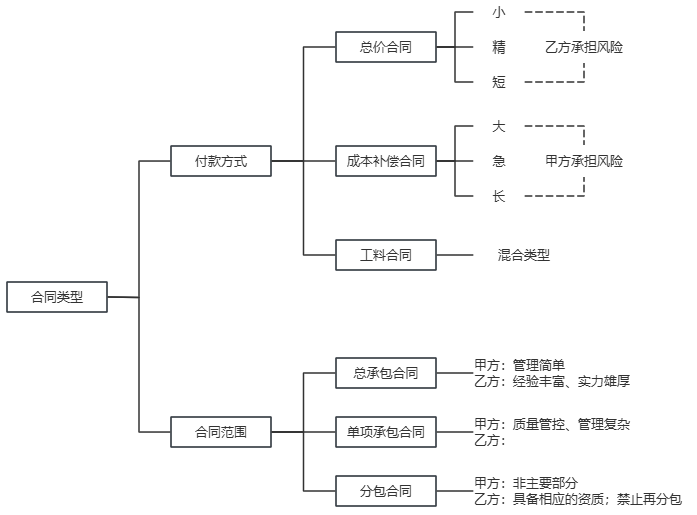
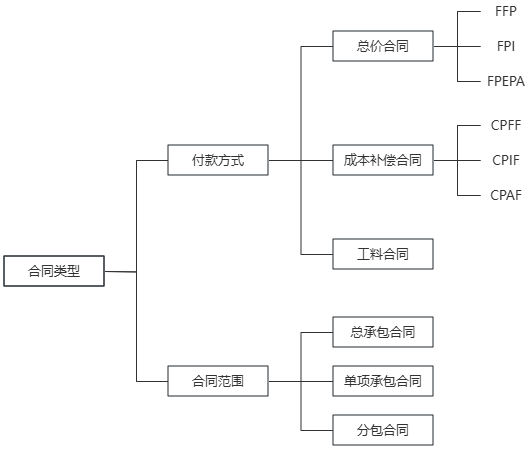
intern

diff --git a/common/internship.html b/common/internship.html
@@ -18,6 +18,42 @@
         break-after: page;
       }
     }
+
+    .bar {
+      display: flex;
+      align-items: center;
+      max-width: 600px;
+      gap: 1rem;
+      margin: 0 auto;
+    }
+
+    .bar::after {
+      content: attr(data-credit);
+      font-size: 16px;
+      line-height: 1;
+    }
+
+    .bar .user {
+      flex-basis: 60px;
+      text-align-last: justify;
+    }
+
+    .bar .per {
+      display: flex;
+      align-items: center;
+      flex: 1;
+      border: 1px solid var(--main-color);
+      padding: 2px;
+      border-radius: 30px;
+    }
+
+    .bar .per::before {
+      content: '';
+      width: calc(var(--credit) /100*100%);
+      height: 18px;
+      border-radius: 30px;
+      background-color: var(--main-color);
+    }
   </style>
 </head>
 
@@ -25,14 +61,53 @@
   <div class="w">
     <header></header>
     <dl>
-      <dt>代办 Todo</dt>
-      <ul>
-        <li>注册校友邦账号并绑定学籍</li>
-        <li>校外实习承诺书：打印；手写签名；扫描上传；纸质留存</li>
-        <li>知情同意书：打印；手写签名；扫描上传；纸质留存</li>
-        <!-- <li>安全责任书：打印；手写签名；扫描上传；纸质留存</li> -->
-      </ul>
+      <figure>
+        <div class="bar" style="--credit:6" data-credit="6">
+          <span class="user">吴旭洋</span>
+          <div class="per"></div>
+        </div>
+        <div class="bar" style="--credit:4" data-credit="4">
+          <span class="user">胡俊伟</span>
+          <div class="per"></div>
+        </div>
+        <div class="bar" style="--credit:9" data-credit="9">
+          <span class="user">蔡梓威</span>
+          <div class="per"></div>
+        </div>
+        <div class="bar" data-credit="6" style="--credit:6">
+          <span class="user">罗航</span>
+          <div class="per"></div>
+        </div>
+        <div class="bar" data-credit="2" style="--credit:2">
+          <span class="user">肖航</span>
+          <div class="per"></div>
+        </div>
+        <div class="bar" data-credit="5" style="--credit:5">
+          <span class="user">钟正扬</span>
+          <div class="per"></div>
+        </div>
+        <div class="bar" data-credit="4" style="--credit:4">
+          <span class="user">黄钧笙</span>
+          <div class="per"></div>
+        </div>
+        <div class="bar" data-credit="4" style="--credit:4">
+          <span class="user">郑智聪</span>
+          <div class="per"></div>
+        </div>
+        <div class="bar" data-credit="3" style="--credit:3">
+          <span class="user">林庆</span>
+          <div class="per"></div>
+        </div>
+        <figcaption>积分榜</figcaption>
+      </figure>
       <dt>指导过程</dt>
+      <ul>
+        <li>例会 +2/次</li>
+        <li>家长知情回执：打印；手写签名；扫描上传；纸质留存 +2</li>
+        <li>校外实习承诺书：打印；手写签名；扫描上传；纸质留存 +2</li>
+        <li>注册校友邦账号并绑定学籍 +2</li>
+      </ul>
+      <dt>相关材料</dt>
       <dd><a href="./intern/计算机工程学院张树彬教师校外教学指导会议记录.docx">指导会议记录</a></dd>
       <dd><a href="./intern/1.校外承诺书及家长回执端口--（27届）学生校外实习承诺书（模板+例子）.docx">承诺书和回执模板</a></dd>
       <dd><a href="./intern/实习见面会/5.教函字〔2026〕39 号 关于落实2027届学生校外实习准备阶段核心工作任务的通知.pdf">实习通知</a></dd>
@@ -432,19 +507,6 @@
           </tr>
         </tbody>
       </table>
-      <dt>指导教师</dt>
-      <ol>
-        <li>院级管理员将校内指导老师信息导进校友邦</li>
-        <li>查看承诺书及回执（手写签字）</li>
-        <li>报名审核</li>
-        <li>查看知情同意书</li>
-        <li>审核三方协议</li>
-        <li>查看学生签到统计</li>
-        <li>周志批阅</li>
-        <li>提醒学生实习评价</li>
-        <li>报告批阅</li>
-        <li>实习成绩鉴定</li>
-      </ol>
       <dt>实习学生</dt>
       <ol>
         <li>注册账号，学籍认证</li>
@@ -457,6 +519,19 @@
         <li>提交实习评价</li>
         <li>提交实习报告书（电脑端）</li>
         <li>成绩鉴定表</li>
+      </ol>
+      <dt>指导教师</dt>
+      <ol>
+        <li>院级管理员将校内指导老师信息导进校友邦</li>
+        <li>查看承诺书及回执（手写签字）</li>
+        <li>报名审核</li>
+        <li>查看知情同意书</li>
+        <li>审核三方协议</li>
+        <li>查看学生签到统计</li>
+        <li>周志批阅</li>
+        <li>提醒学生实习评价</li>
+        <li>报告批阅</li>
+        <li>实习成绩鉴定</li>
       </ol>
     </dl>
     <div id="footer"></div>

diff --git a/web/ide-vscode.html b/web/ide-vscode.html
@@ -445,18 +445,37 @@ ul>li.news-item*5>(.news-title>lorem5)+.page{$}
 dg+h100vh+bgc:#000+c:#fff
 
 ((h2>lorem5)+(p*5>lorem))*5</pre>
+    </dl>
+    <h2>Drill</h2>
+    <dl>
       <div class="demo"> Helloworld - 原生开发项目；框架开发项目，请查看 <a href="../vue/project.html">Vue
           - project</a></div>
-      <dd>在系统某个位置，创建一个空白文件夹/ Ctrl + Shift + N，拖动到 Vs Code 中打开；或直接在 Vs Code 中创建文件夹</dd>
-      <dd>创建主页文件 index.html</dd>
-      <dd>在编辑窗口区输入一个英文 ! 并按 Tab 或 Enter，快速生成 H5 基本结构页面</dd>
-      <dd>修改页面 &lt;head&gt; 区的 &lt;title&gt; 为学号+姓名，如20241001张三</dd>
-      <dd>在 &lt;body&gt; 区输入 Hello World 并按 CTRL + S 保存</dd>
-      <dd>在 index.html 页面任意位置，右键单击鼠标，选择 Open with ddve Server，自动打开浏览器，查看页面效果</dd>
-      <dd>返回编辑器，编辑、修改并保存文档</dd>
-      <dd>返回浏览器，查看实时更新效果</dd>
-      <dd>测试项目</dd>
-      <dd>发布项目</dd>
+      <ol>
+        <li>在系统某个位置，创建一个空白文件夹/ Ctrl + Shift + N，拖动到 Vs Code 中打开；或直接在 Vs Code 中创建文件夹</li>
+        <li>创建主页文件 index.html</li>
+        <li>在编辑窗口区输入一个英文 ! 并按 Tab 或 Enter，快速生成 H5 基本结构页面</li>
+        <li>修改页面 &lt;head&gt; 区的 &lt;title&gt; 为学号+姓名，如20241001张三</li>
+        <li>在 &lt;body&gt; 区输入 Hello World 并按 CTRL + S 保存</li>
+        <li>在 index.html 页面任意位置，右键单击鼠标，选择 Open with live Server，自动打开浏览器，查看页面效果</li>
+        <li>返回编辑器，编辑、修改并保存文档</li>
+        <li>返回浏览器，查看实时更新效果</li>
+        <li>测试项目</li>
+        <li>发布项目</li>
+      </ol>
+      <div class="demo">Helloworld - 进阶版</div>
+      <dd>将项目推送到远程仓库</dd>
+      <ol>
+        <li>安装并配置 <a href="./ide-git.html">Git 版本管理</a></li>
+        <li>注册并创建 <a href="./ide-github.html">Github 仓库</a></li>
+        <li>单击 Vs code 编辑器左侧的仓库图标</li>
+        <li>初始化项目</li>
+        <li>提交代码 commit，第一次会提示是否保存，选择永远 always</li>
+        <li>发布项目 Publish，提示打开 GitHub 进行认证，授权并同意</li>
+        <li>继续发布，提示仓库已存在；实际是没有关联远程仓库；在</li>
+        <li>CTRL + ~ 打开 Vs code 终端，关联远程仓库</li>
+        <pre>git remote add origin 仓库地址</pre>
+        <li>重新发布</li>
+      </ol>
       <div class="demo"> 查找并替换所有元素的自定义数据 - 使用正则表达式</div>
       <dd>打开查找替换功能（通常使用 Ctrl+H 或 Cmd+H）或 Ctrl + F</dd>
       <dd>启用正则表达式模式 - 点击 .* 图标或类似的选项</dd>

diff --git a/node/promise.html b/node/promise.html
@@ -7,7 +7,7 @@
   <meta name="viewport" content="width=device-width, initial-scale=1.0">
   <title>Promise</title>
   <link rel="stylesheet" href="/css/reset.css">
-  <link rel="stylesheet" href="./css/style.css">
+  <!-- <link rel="stylesheet" href="./css/style.css"> -->
   <base target="_blank">
 </head>
 
@@ -73,7 +73,41 @@ let promise = new Promise((resolve, reject) => {
   .finally(log => {
     console.log('ending for log');
 })</pre>
-      <div class="demo"> 延时</div>
+      <dt>状态</dt>
+      <div>1. pending</div>
+      <dd>待处理 - 调用 Promise 时，初始状态为 pending，表示还没有开始</dd>
+      <pre>
+let promise = new Promise((resolve, reject) => {
+})
+
+console.log(promise);</pre>
+      <div>2. fulfilled</div>
+      <dd>执行成功/完毕时，调用 resolve，将 Promise 的状态改为 fulfilled</dd>
+      <pre>
+let promise = new Promise((resolve, reject) => {
+  resolve('fulfilled')
+})
+
+console.log(promise);
+
+promise.then(res => {
+  console.log(res);
+})</pre>
+      <div class="demo">延时</div>
+      <pre>
+function timeout(n) {
+  return new Promise(res => setTimeout(res, n))
+}
+
+async function wait() {
+  await timeout(1000)
+  console.log('1s');
+  await timeout(3000)
+  console.log('3s');
+}
+
+wait()</pre>
+      <div class="demo">延时</div>
       <pre>
 function loadData() {
   return new Promise((res, rej) => {
@@ -87,26 +121,6 @@ loadData().then(res => {
   console.log(res);
   return res
 })</pre>
-      <dt>状态</dt>
-      <div>1. pending</div>
-      <dd>待处理 - 调用 Promise 时，初始状态为 pending，表示还没有开始</dd>
-      <pre>
-let promise = new Promise((resolve, reject) => {
-})
-
-console.log(promise);</pre>
-      <div>2. fulfilled</div>
-      <dd>执行成功时，调用 resolve，将 Promise 的状态改为 fulfilled</dd>
-      <pre>
-let promise = new Promise((resolve, reject) => {
-  resolve('fulfilled')
-})
-
-console.log(promise);
-
-promise.then(res => {
-  console.log(res);
-})</pre>
       <div>3. rejected</div>
       <dd>Promise 执行过程中遇到错误或者无法完成预期操作时，Promise 的状态改为 rejected</dd>
       <pre>
@@ -119,6 +133,7 @@ console.log(promise);
 promise.catch(err => {
   console.log(err);
 })</pre>
+      <div class="demo">数据加载</div>
       <pre>
 let flag = false
 let promise = new Promise((resolve, reject) => {

diff --git a/spm/contract.html b/spm/contract.html
@@ -38,6 +38,10 @@
         <img src="./img/c0.png" alt="">
         <figcaption>合同类型</figcaption>
       </figure>
+      <figure>
+        <img src="./img/c1.png" alt="">
+        <figcaption>合同风险</figcaption>
+      </figure>
       <dd>按照付款方式划分</dd>
       <dd>关键词：成本 Cost、费用 Fee</dd>
       <dt>总价合同</dt>
@@ -256,7 +260,22 @@
       <dd>输出：招标书或者类似招标书的形式体现的</dd>
     </dl>
     <h2>敏捷项目合同</h2>
-    <dl></dl>
+    <dl>
+      <div class="tips">
+        <p>客户协作高于合同协商</p>
+        <p>Customer collaboration over contract negotiation</p>
+        <p class="quote">-敏捷宣言</p>
+      </div>
+      <dd>多层次结构</dd>
+      <dd>强调价值交付</dd>
+      <dd>总价增量</dd>
+      <dd>固定的时间和材料</dd>
+      <dd>累进的时间和材料</dd>
+      <dd>提取取消方案</dd>
+      <dd>动态范围方案</dd>
+      <dd>团队扩充</dd>
+      <dd>支持全方位供应商</dd>
+    </dl>
     <h2>练习 Drill</h2>
     <dl>
       <div class="demo">预计成本 = 10万, 固定费用 = 1.5万，如果实际成本 = 30万，则支付总价为（）万。</div>

diff --git a/common/paper.html b/common/paper.html
@@ -192,10 +192,17 @@
       <dd>图的引用描述应保持一致，如下图所示或如图xxx所示</dd>
       <dd>图片应配有简单说明，避免 <strong>单纯罗列、堆砌大量图片</strong></dd>
       <dt>图表 Chart</dt>
-      <dd>使用专业工具绘制；不要使用PPT绘图</dd>
+      <dd>使用专业工具绘制；不要使用 PPT 绘图</dd>
       <dd>图表的设计，注意：布局 <strong>均衡</strong>；字体、大小、线条风格 <strong>保持一致</strong></dd>
       <dd>图表不要背景、不要过多颜色</dd>
       <dd>字体大小不能超过正文</dd>
+      <div class="tips">
+        <p>ProcessOn</p>
+        <p>字体：宋体/Times New Roman；13px</p>
+        <p>线条 1px</p>
+        <p>无填充</p>
+        <p>无网格</p>
+      </div>
       <dt>代码 Code</dt>
       <dd>不要简单复制粘贴，注意根据逻辑调整格式，如：注释换行应该补加注释标记</dd>
       <dd>代码格式同正文格式区分开来，如为段落应用背景色或调整字体大小</dd>

diff --git a/index.html b/index.html
@@ -96,13 +96,13 @@
     <div class="card">
       <h3>tool</h3>
       <ul>
+        <li><a href="/common/internship.html">实习日志</a></li>
         <li><a href="/common/paper.html">论文规范要点</a></li>
         <li><a href="https://passport2.chaoxing.com">超星学习通</a></li>
         <li><a href="/common/rank.html">积分榜</a></li>
         <li><a href="/utils/index.html">在线资源</a></li>
         <li><a href="/index_cover.html">最美2024</a></li>
         <li><a href="/index3d.html">3D入口</a></li>
-        <li><a href="/common/internship.html">实习日志</a></li>
         <li><a href="/common/log.html">更新日志</a></li>
         <li><a href="https://www.yuque.com">语雀</a></li>
         <li><a href="https://huacheng.gz-cmc.com/pages/2024/12/13/SF130662133e6ab8b65ce6462b9a2421.html">粤美勇士曾素聪</a>

diff --git a/web/ts/overview.html b/web/ts/overview.html
@@ -18,15 +18,18 @@
   <dl>
     <dd>更多信息，请访问 <a href="https://www.tslang.cn/index.html">TypeScript</a></dd>
     <dt>Deployment</dt>
-    <ol class="sn">
-      <li>install</li>
-      <pre>npm i -g typescript</pre>
-      <li>check version</li>
-      <pre>tsc -v</pre>
-      <li>compile</li>
-      <pre>tsc filename.ts</pre>
-    </ol>
-    <dt>config</dt>
+    <dd>install</dd>
+    <pre>npm i -g typescript</pre>
+    <dd>check version</dd>
+    <pre>
+tsc -v
+Version 6.0.3</pre>
+    <dd>compile</dd>
+    <pre>tsc filename.ts</pre>
+    <dt>编译配置 tsconfig.json</dt>
+    <dd>include：编译的源文件位于哪里；可以简单粗暴指定 src</dd>
+    <pre>"include": ["src"]</pre>
+    <dd>完整配置如下</dd>
     <pre>
 {
   "compilerOptions": {

diff --git a/web/ide-git.html b/web/ide-git.html
@@ -79,6 +79,8 @@
       </div>
       <dt>下载和安装 Download & Installment</dt>
       <dd>打开 Git 官网 <a href="https://git-scm.com/" class="link">https://git-scm.com/</a>，选择对应的操作系统和版本，点击下载并安装</dd>
+      <dd>选择 vs code 为默认编辑器</dd>
+      <dd>使用 main 覆盖 默认分支</dd>
       <dt>查看版本 View</dt>
       <dd>右键点击桌面空白处，选择 Git Bash Here，打开终端窗口，输入以下命令</dd>
       <dd>Git Bash 就是一个迷你型的 Linux 系统哦</dd>
